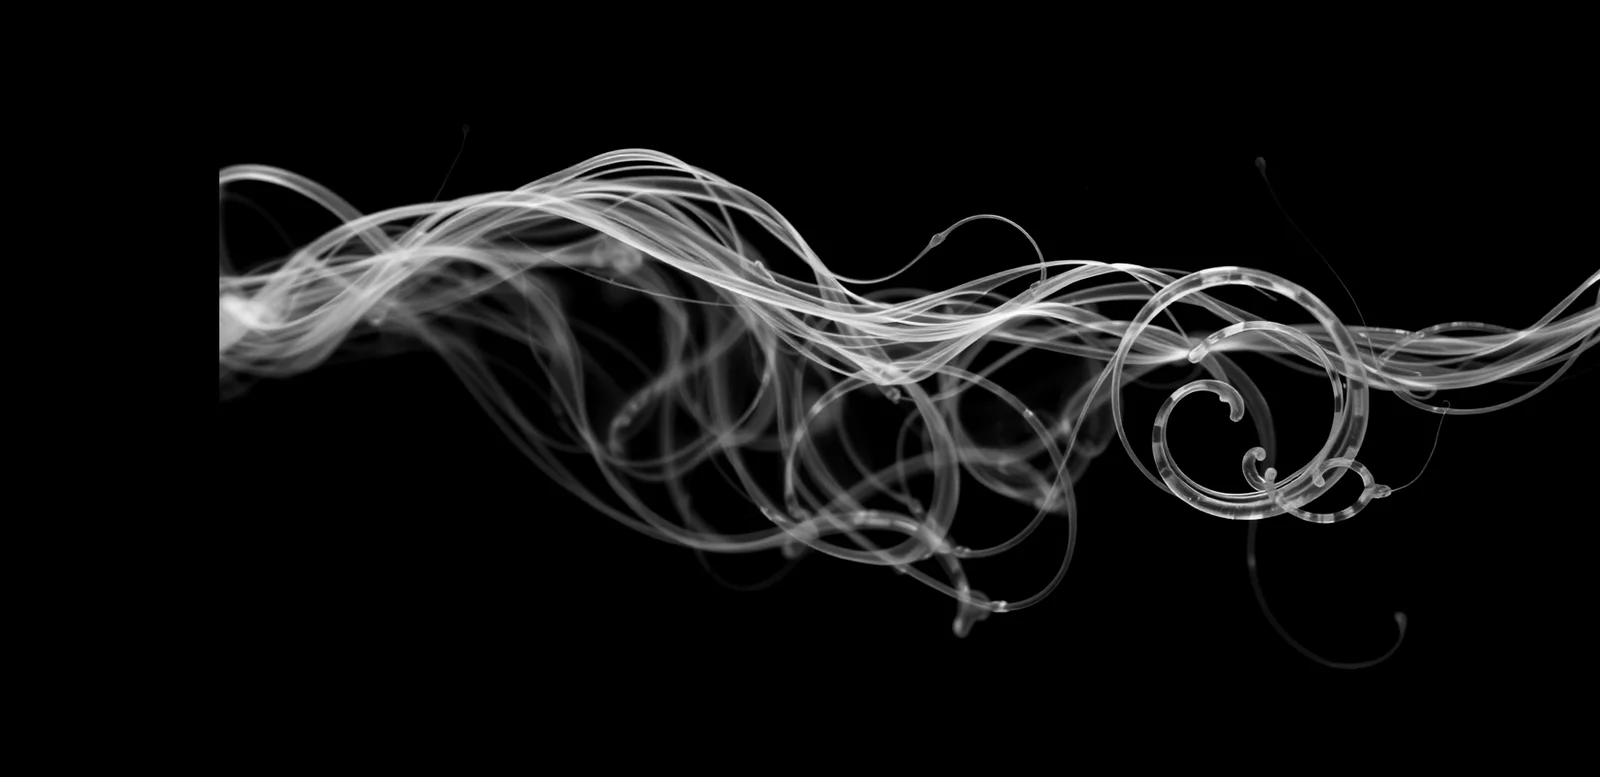
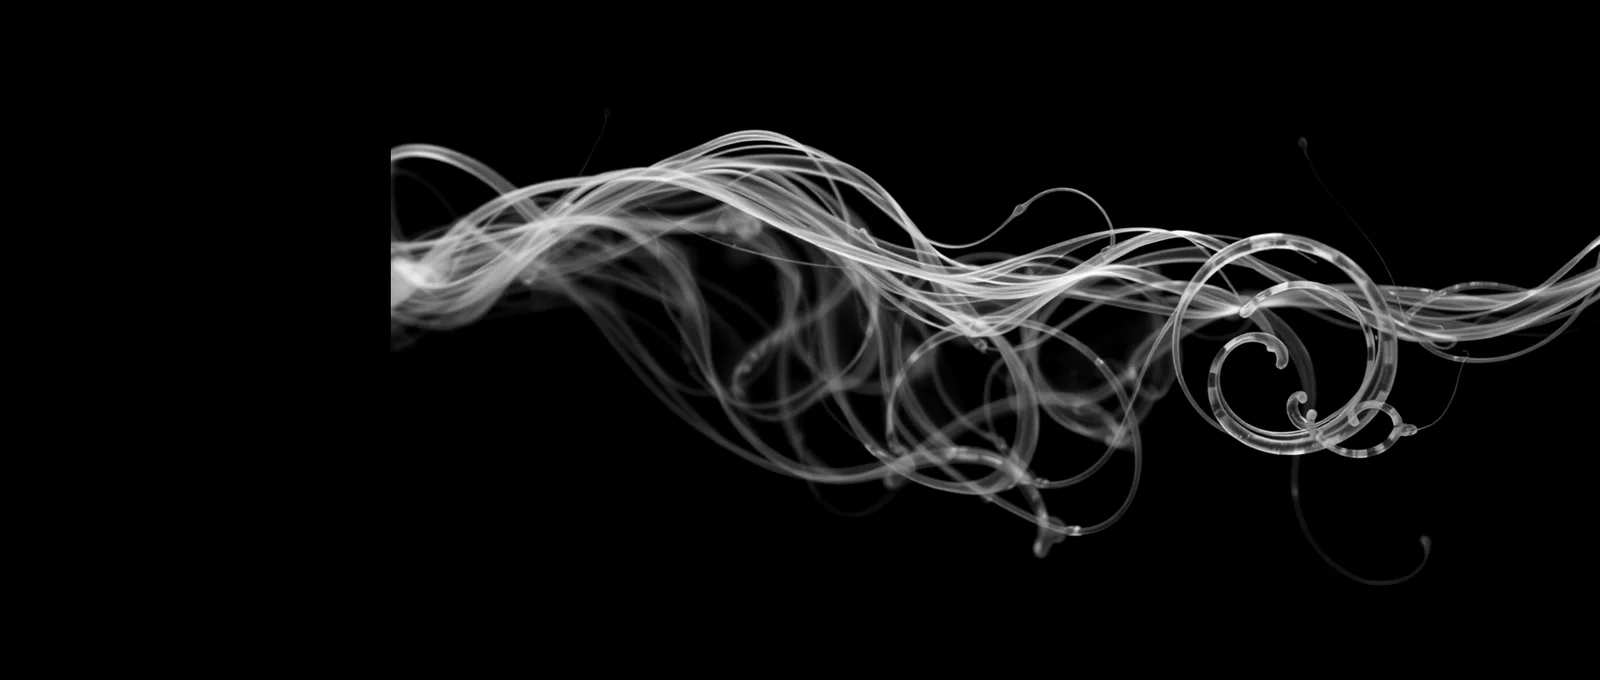
fix(hero): masa más a la derecha y deriva que se nota (y por qué no se movía)
Dos cosas, una de encuadre y otra que no era de la web.

1) ENCUADRE MÁS A LA DERECHA. Asset 1920×816 (2,35:1) con el contenido pegado a
   la derecha y negro por la izquierda, + object-position 42 %: ahora sí hay ancho
   que recortar (la imagen es MÁS apaisada que el hero), así que el mando existe.
   La masa entra desde el canto derecho y el texto queda sobre negro limpio.
   Peso: 29,6 kB (1600) y 15,2 kB (900) — baja otra vez.

2) "NO SE MUEVE" — no era la web. MEDIDO en el Mac del creador:
   `defaults read com.apple.universalaccess reduceMotion` → 1 (ACTIVADO).
   La regla `prefers-reduced-motion` apaga la deriva a propósito, así que en su
   pantalla nunca se movió. No se toca el ajuste del sistema: se respeta.
   Pero la imagen no se queda muerta: con "reducir movimiento" pasa a una
   respiración de opacidad (18 s, sin traslación, que es lo que marea).
   Para quien no tiene el ajuste: deriva de 32 s con más recorrido (escala
   1,05→1,12 y −2,6 %), perceptible sin marear. Ya no es un susurro de 44 s.

Revisado a 1280 y a 390 (velo vertical invertido, texto sobre negro, hebras abajo).

Changed region(s): [[0.125, 0.1853, 1.0, 0.8338], [0.875, 0.7721, 0.9062, 0.8029], [0.7812, 0.7103, 0.8125, 0.7412]]

diff --git a/src/styles/web2.css b/src/styles/web2.css
@@ -201,9 +201,9 @@
   width: 100%;
   height: 100%;
   object-fit: cover;
-  object-position: 55% 50%;
+  object-position: 42% 50%;
   /* Deriva: 44 s de paneo lentísimo, ida y vuelta. Cero JS. */
-  animation: deriva 44s ease-in-out infinite alternate;
+  animation: deriva 32s ease-in-out infinite alternate;
   will-change: transform;
 }
 .hero-velo {
@@ -225,18 +225,30 @@
 
 @keyframes deriva {
   from {
-    transform: scale(1.04) translate3d(0, 0, 0);
+    transform: scale(1.05) translate3d(0, 0, 0);
   }
   to {
-    transform: scale(1.1) translate3d(1.6%, -1%, 0);
+    transform: scale(1.12) translate3d(-2.6%, -1.2%, 0);
   }
 }
 
 /* Quien pide menos movimiento, no ve movimiento (y no pierde la imagen). */
+/* Con "reducir movimiento" el desplazamiento se apaga del todo (eso pide el ajuste),
+   pero la imagen no se queda muerta: respira con la opacidad —sin traslación, que es
+   lo que marea a quien activa ese ajuste. Medido el 24 oct: el Mac de Diego lo tiene
+   ACTIVADO (reduceMotion = 1), así que en su pantalla no se mueve; es el ajuste, no la web. */
 @media (prefers-reduced-motion: reduce) {
   .hero-bg img {
-    animation: none;
-    transform: scale(1.04);
+    animation: respirar 18s ease-in-out infinite alternate;
+    transform: scale(1.05);
+  }
+  @keyframes respirar {
+    from {
+      opacity: 0.82;
+    }
+    to {
+      opacity: 1;
+    }
   }
 }
 
